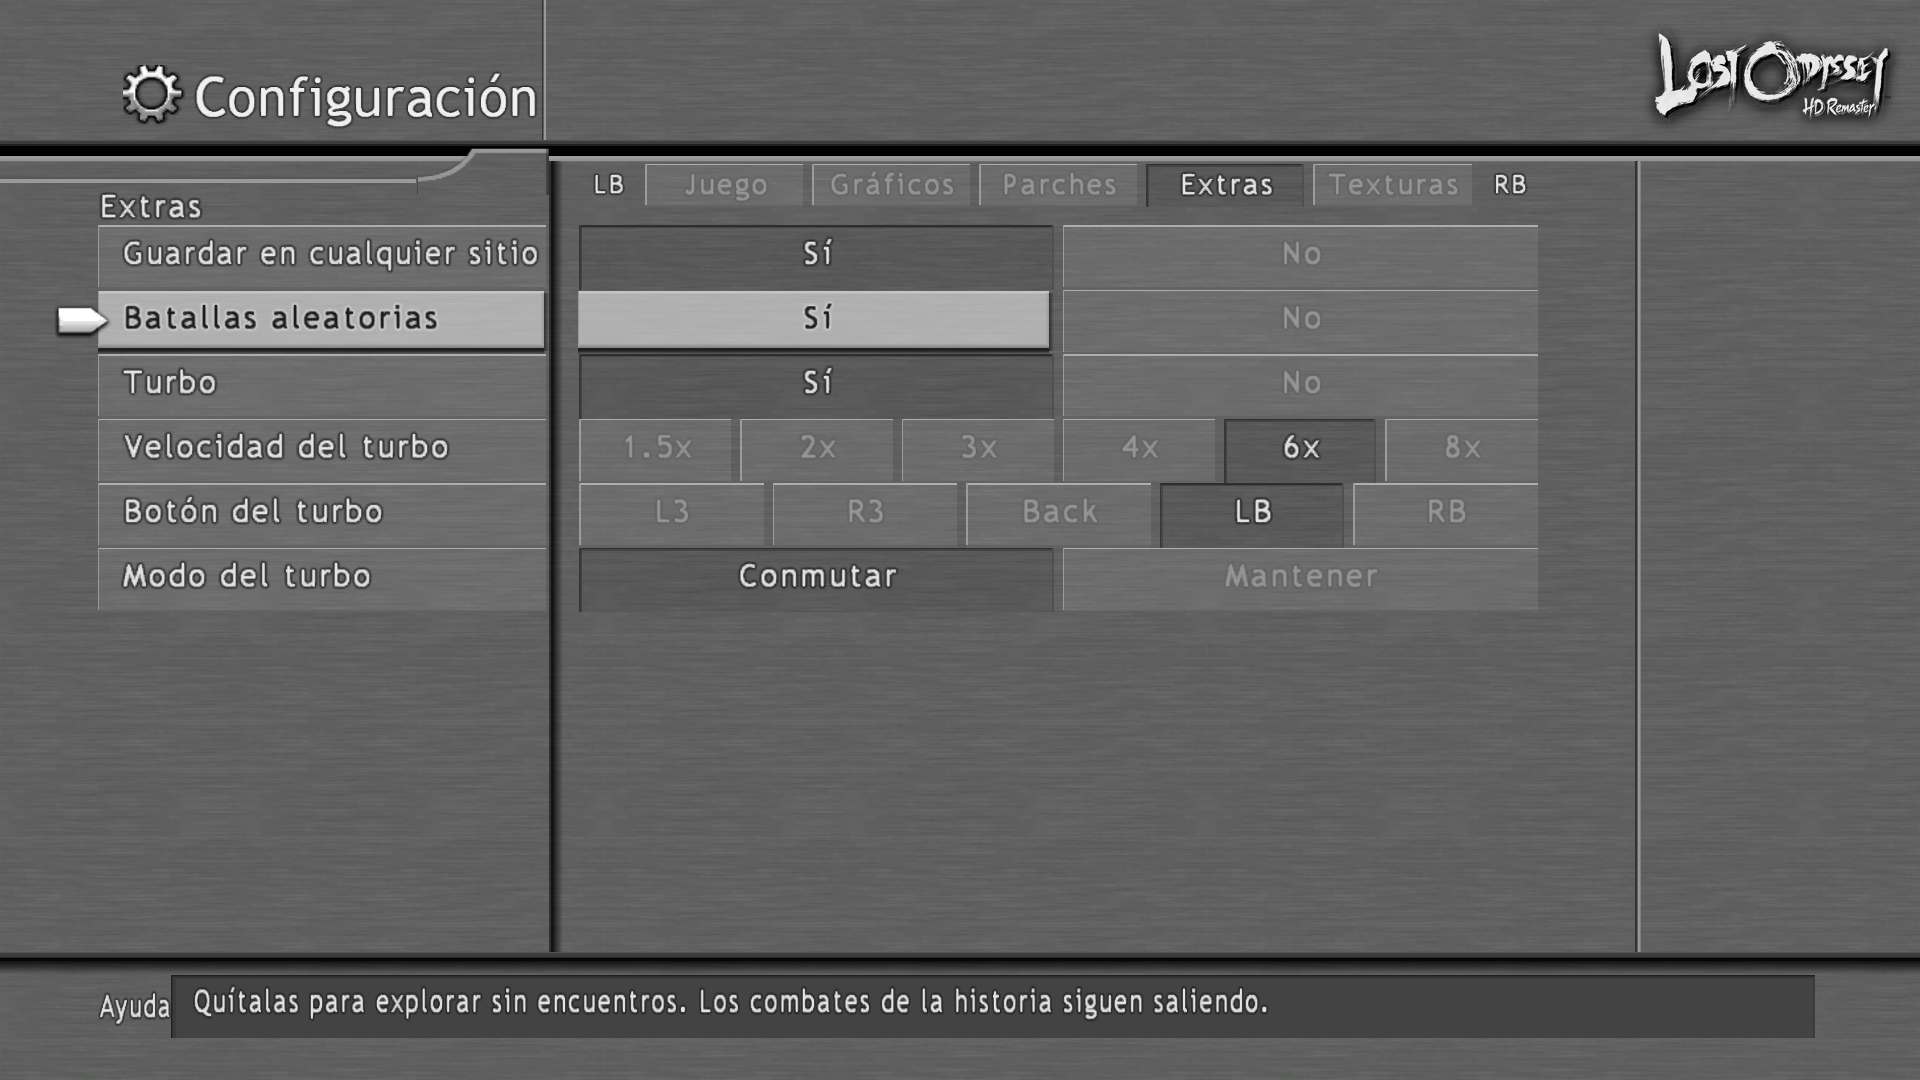
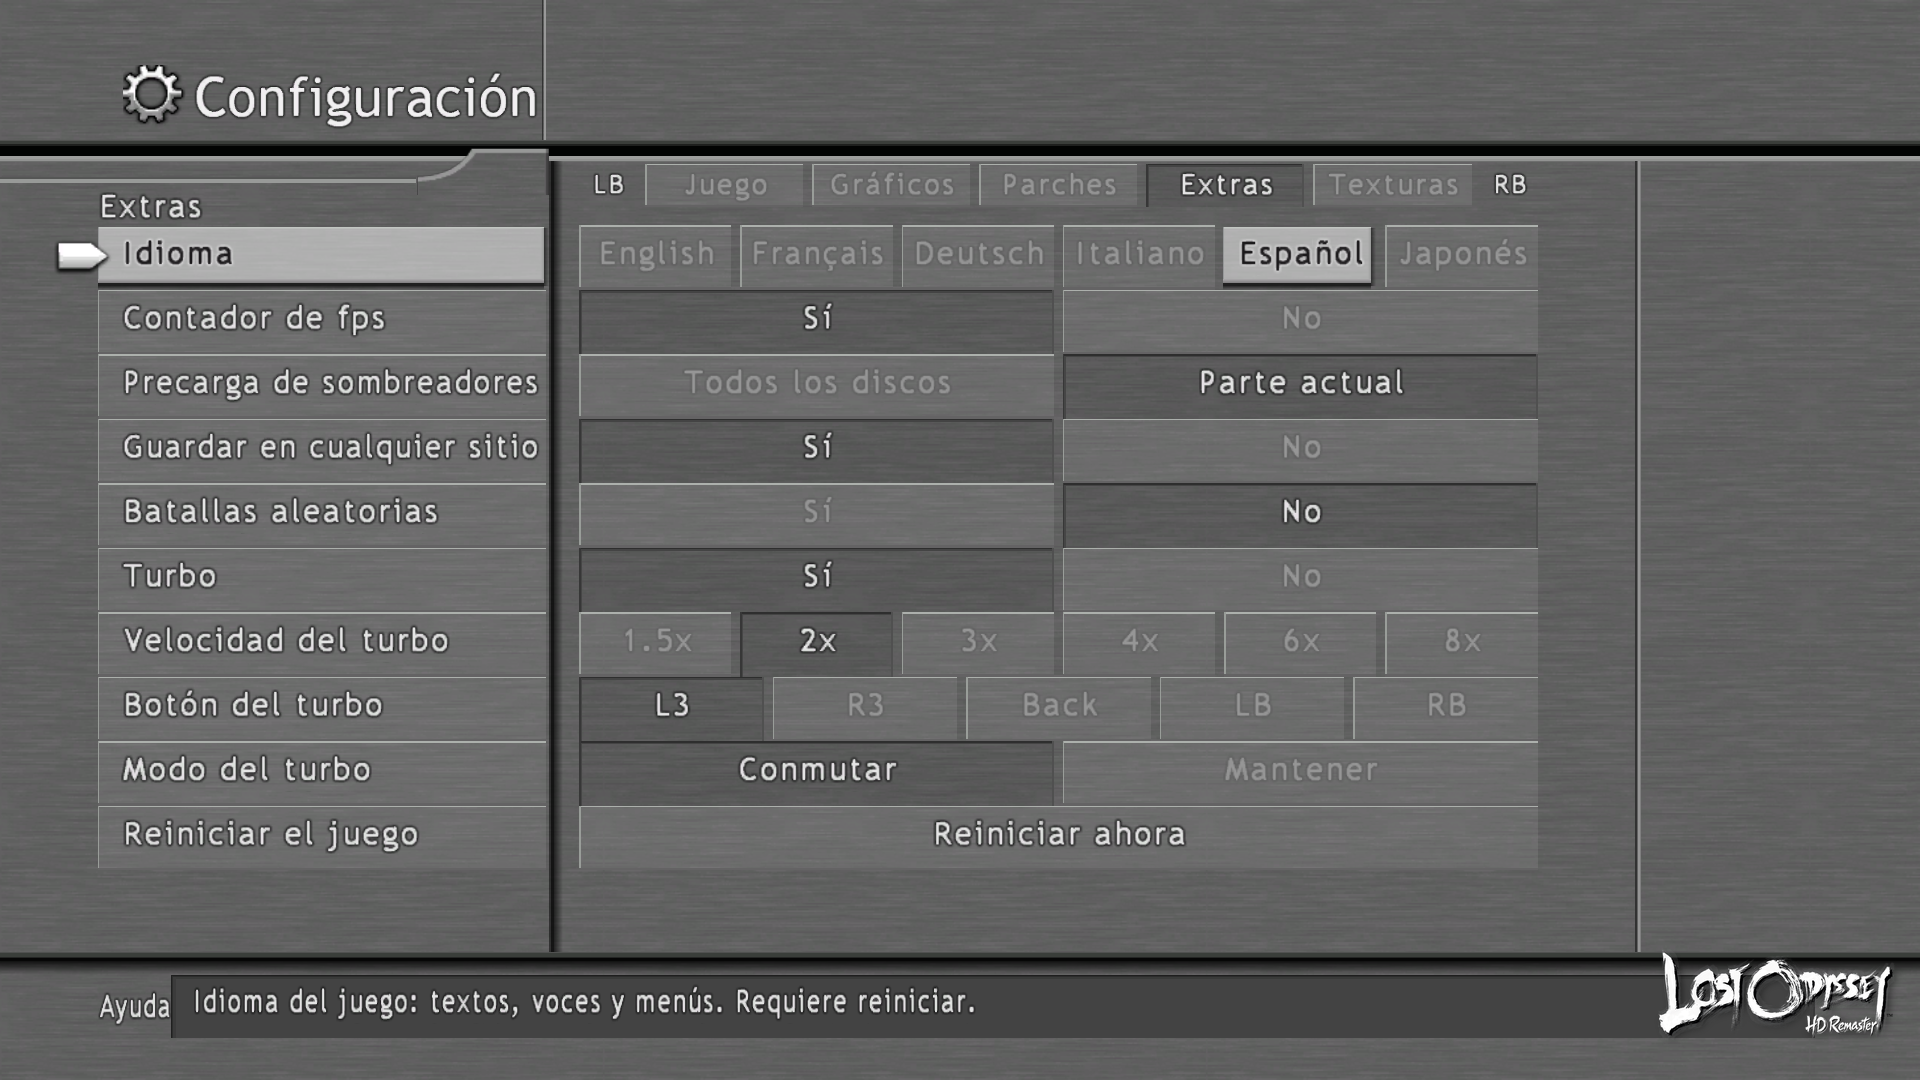
Capturas de octubre: deslizadores de DLSS y texturas HD, panorámico y menús nuevos
- Deslizadores animados (WebP) para DLSS y para el pack HD, con enlaces a las capturas a tamaño completo
- Capturas nuevas: 21:9, preparación de sombreadores, pestañas Gráficos y Extras, título con el logo HD Remaster
- Logo del proyecto en todas, como las anteriores

diff --git a/README.md b/README.md
@@ -45,24 +45,21 @@ Lost Odyssey came out on Xbox 360 in 2007 and never left it. This project rebuil
 
 ### DLSS
 
-The same scene with the 3D rendered at 720p and upscaled, without and with DLSS.
+The same scene, with the 3D upscaled without DLSS and with DLSS Quality.
 
-<!-- PLACEHOLDER: media/dlss-off.png y media/dlss-on.png -->
-| DLSS off | DLSS Quality |
-|---|---|
-| *(screenshot coming soon)* | *(screenshot coming soon)* |
+![DLSS off and on](media/dlss-slider.webp)
+
+Full size: [DLSS off](media/dlss-off.png) · [DLSS on](media/dlss-on.png)
 
 ### Ultrawide
 
-<!-- PLACEHOLDER: media/ultrawide.png -->
-*(screenshot coming soon)*
+![21:9](media/ultrawide.png)
 
 ### HD textures
 
-<!-- PLACEHOLDER: media/hd-textures-before.png y media/hd-textures-after.png -->
-| Original | HD pack |
-|---|---|
-| *(screenshot coming soon)* | *(screenshot coming soon)* |
+![Original textures and the HD pack](media/hd-textures-slider.webp)
+
+Full size: [original](media/hd-textures-before.png) · [HD pack](media/hd-textures-after.png)
 
 ### An interface that stays put
 
@@ -82,7 +79,6 @@ The same line of dialogue, enlarged. Original above, this port below.
 
 Press **RB** on the game's Configuration screen and four new tabs appear, drawn with the game's own font, panels and cursor.
 
-<!-- PLACEHOLDER: sustituir media/in-game-settings.png por la pestaña Gráficos nueva (Resolución, Escala 3D, DLSS, Nitidez 3D) -->
 ![Graphics tab inside the game's own Configuration screen](media/in-game-settings.png)
 
 ![Extras tab](media/extras-tab.png)
@@ -95,12 +91,10 @@ Press **RB** on the game's Configuration screen and four new tabs appear, drawn 
 
 On the first launch the port reads your discs and prepares the game's shaders, on a screen made from the game's own fonts and textures.
 
-<!-- PLACEHOLDER: media/shader-prep.png -->
-*(screenshot coming soon)*
+![Preparing shaders](media/shader-prep.png)
 
 ### Title screen
 
-<!-- PLACEHOLDER: sustituir media/title-screen.png por el título con el logo "HD Remaster" -->
 ![Title screen](media/title-screen.png)
 
 ---
